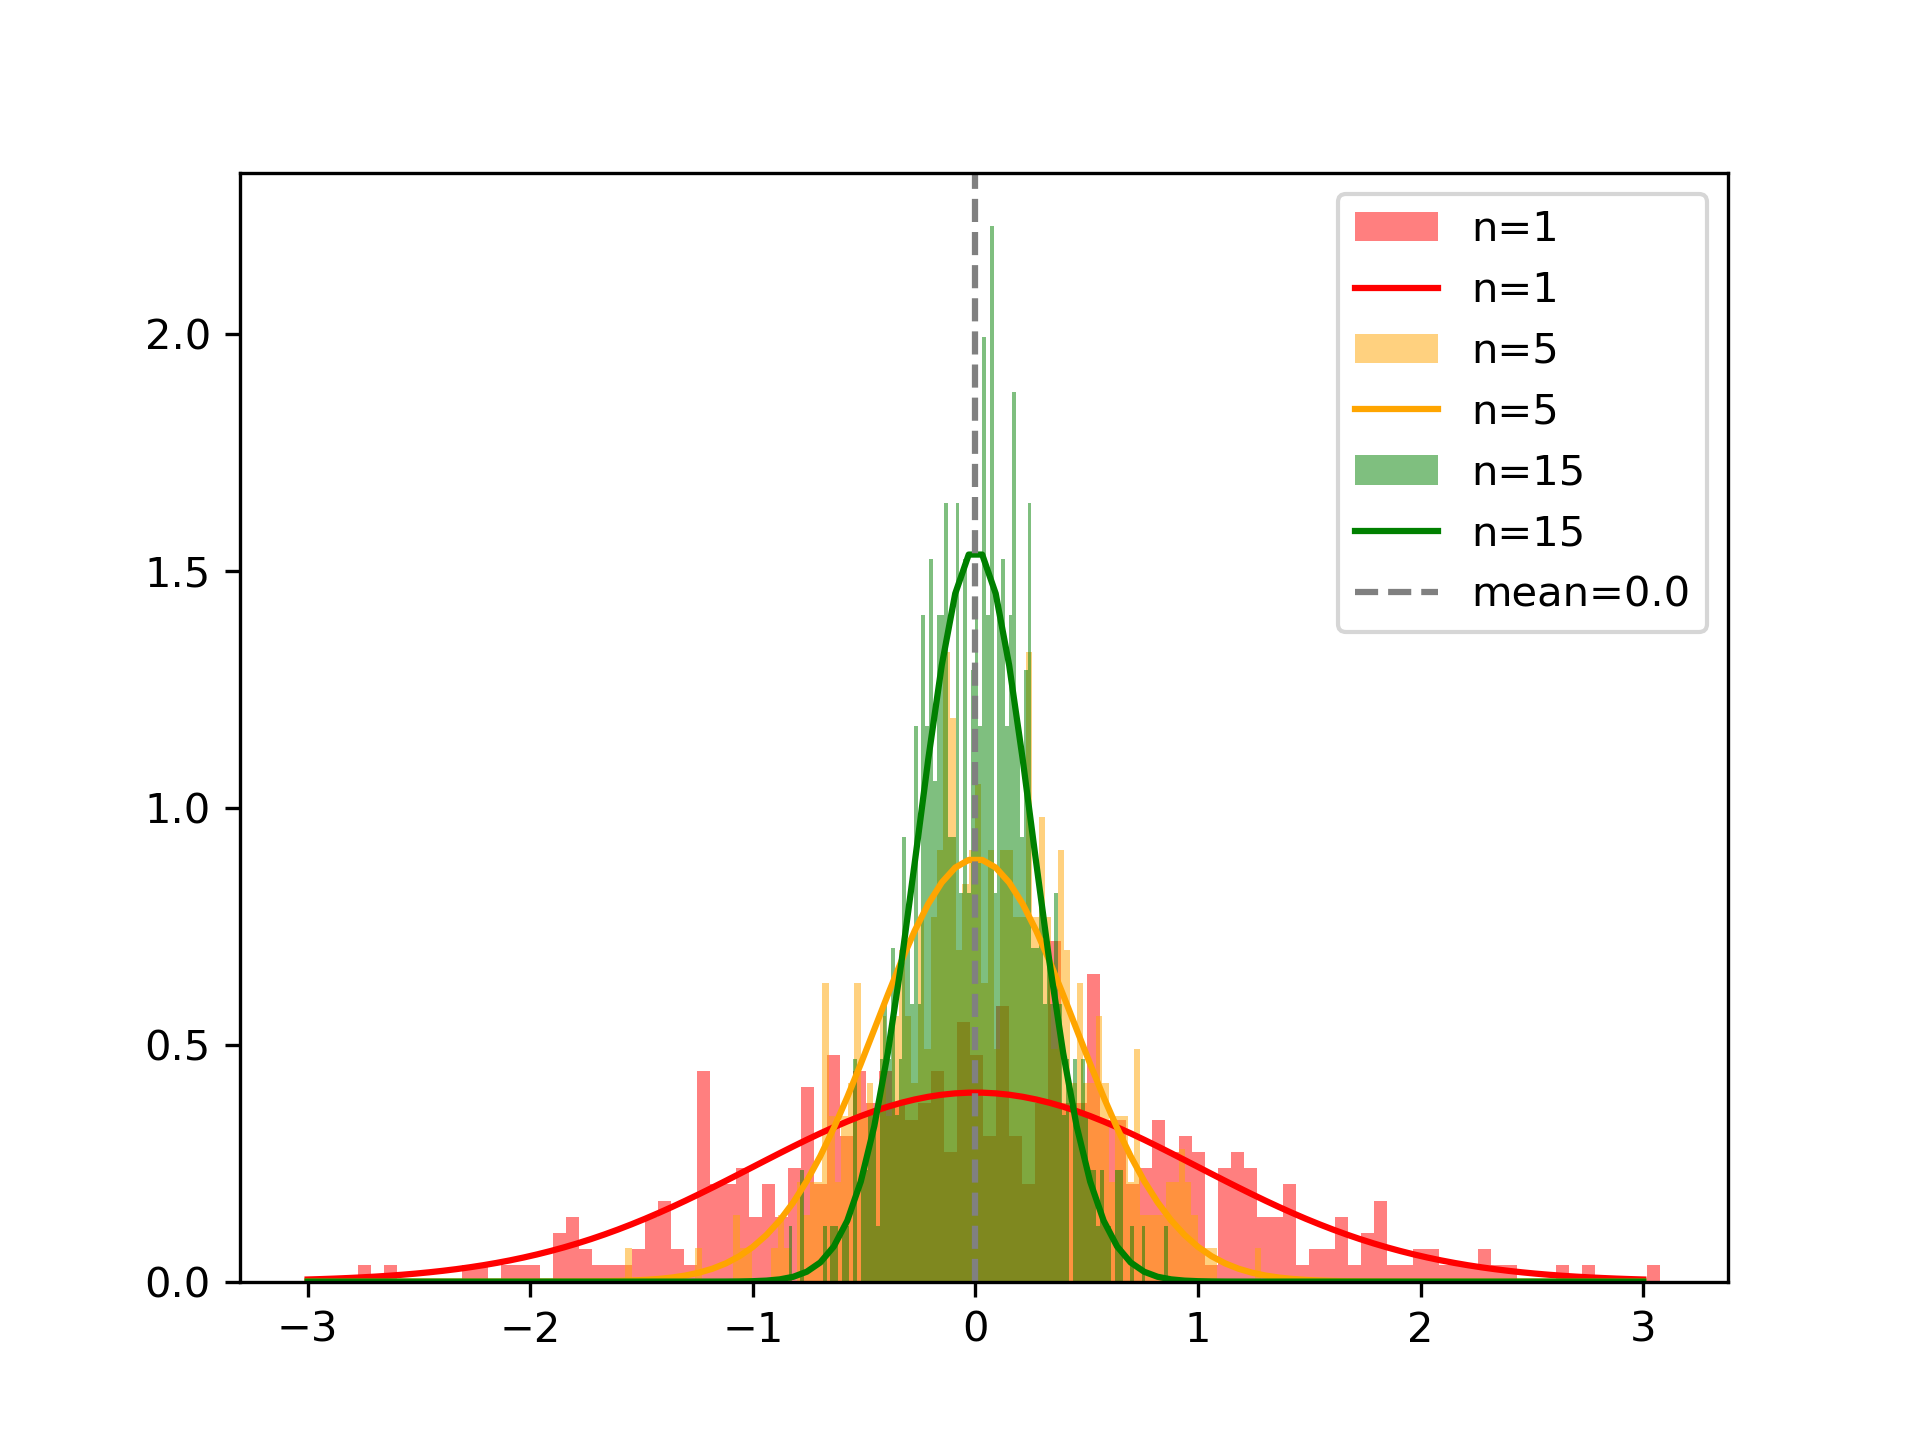
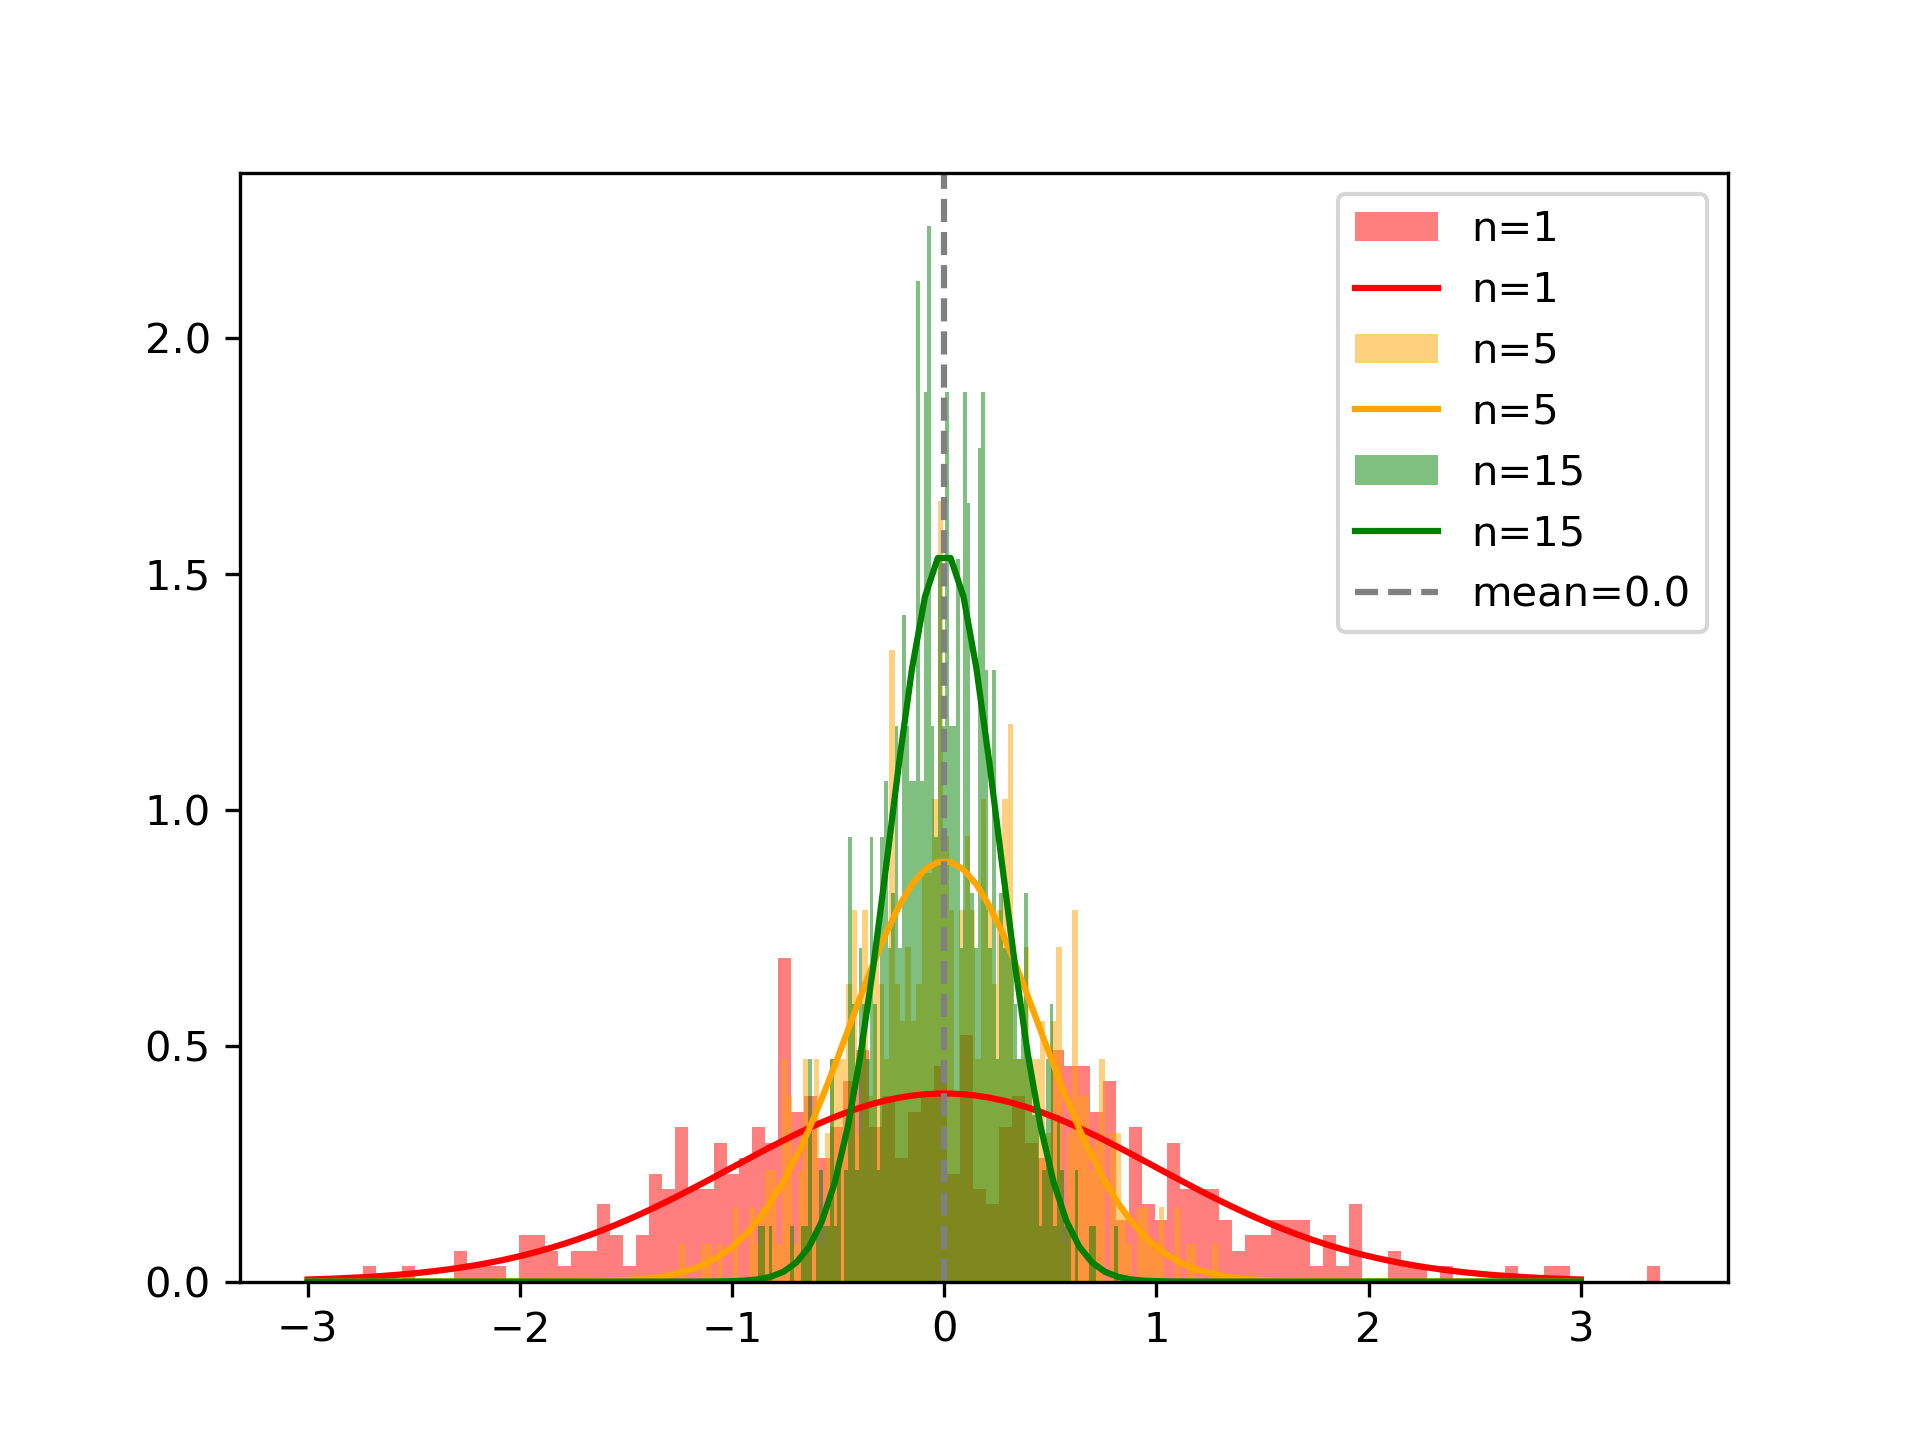
Add Alfra_013.jpg, Ants_on_a_dandelion.jpg, 04_skimage.py, ants_binary.png, ants_channels.png and labrador_gray.png

diff --git a/py scripts/04_skimage.py b/py scripts/04_skimage.py
@@ -1,0 +1,49 @@
+from skimage import io, color
+from skimage.filters import threshold_otsu
+import matplotlib.pyplot as plt
+
+# Load the image of the labrador
+# From https://commons.wikimedia.org/wiki/File:Afra_013.jpg
+#labrador = io.imread('Afra_013.jpg')
+labrador = io.imread("input/Afra_013.jpg")
+# Convert the image to grayscale
+gray_labrador = color.rgb2gray(labrador)
+# Display the grayscale image
+plt.axis("off") # turn off axis
+plt.imshow(gray_labrador, cmap='gray')
+plt.savefig("output/labrador_gray.png", dpi=300)  # save figure
+plt.show()
+
+# Load image of ants
+# From https://commons.wikimedia.org/wiki/File:Ants_on_a_dandelion.jpg
+ants = io.imread("input/Ants_on_a_dandelion.jpg")
+print(ants.shape)  # (height, width, channels)
+
+
+fig, ax = plt.subplots(2,2, figsize=(8,8))
+ax[0][0].imshow(ants[:,:,0])
+ax[0][0].set_title("Red channel")
+ax[0][0].axis("off")
+
+ax[0][1].imshow(ants[:,:,1])
+ax[0][1].set_title("Green channel")
+ax[0][1].axis("off")
+
+ax[1][0].imshow(ants[:,:,2])
+ax[1][0].set_title("Blue channel")
+ax[1][0].axis("off")
+
+ax[1][1].imshow(ants)
+ax[1][1].set_title("Original image")
+ax[1][1].axis("off")
+plt.savefig("output/ants_channels.png", dpi=300)
+plt.show()
+
+#thresholding on gray scale image
+gray_ants = color.rgb2gray(ants)
+thresh = threshold_otsu(gray_ants)
+binary_ants = gray_ants > thresh
+plt.imshow(binary_ants, cmap='gray')
+plt.axis("off")
+plt.savefig("output/ants_binary.png", dpi=300)
+plt.show()

diff --git a/README.md b/README.md
@@ -3,19 +3,37 @@ Repository to revise my Python basics, including the use of numpy, matplotlab, e
 
 ## Contents
 **Sine and Cosine Plots**  
-   File: 'py scripts/01_sine_cosine.py'  
-   Demonstrates plotting sine, cosine, and their squares on subplots.  
-   Libraries used: numpy, matplotlib
-   ![Sine and Cosine Plots](output/sine_cosine_plots.png)
+File: `py scripts/01_sine_cosine.py`  
+Demonstrates plotting sine, cosine, and their squares on subplots.  
+Libraries used: numpy, matplotlib  
+![Sine and Cosine Plots](output/sine_cosine_plots.png)
 
 **Show Numpy Array as an Image**  
-   File: 'py scripts/02_numpy-imshow.py'  
-   Demonstrates creating a numpy array with zeroes, changing the values and plotting the values as an image.  
-   Libraries used: numpy, matplotlib
-   ![Numpy Array As an Image](output/numpy_imshow.png)
+File: `py scripts/02_numpy-imshow.py`  
+Demonstrates creating a numpy array with zeroes, changing the values and plotting the values as an image.  
+Libraries used: numpy, matplotlib  
+![Numpy Array As an Image](output/numpy_imshow.png)  
 
 **Random Samples and Histograms (Central Limit Theorem)**  
-  File: 'py scripts/03_random-histogram.py'
-  Generate random samples from a normal distribution, find mean of each sample and plot the sample means of each histogram. As the sample size increases, the distribution of the sameple mean will be closer to a normal distribution.
-  Libraries used: numpy, matplotlib
-  ![random_histogram.png](output/random_histogram.png)
+File: `py scripts/03_random-histogram.py`  
+Generate random samples from a normal distribution, find mean of each sample and plot the sample means of each histogram. As the sample size increases, the distribution of the sample mean will be closer to a normal distribution.  
+Libraries used: numpy, matplotlib  
+![Random Histogram](output/random_histogram.png)  
+
+**Image Processing with scikit-image**  
+File: `py scripts/04_skimage.py`  
+Demonstrates basic image processing techniques:  
+- Convert a color image to grayscale.  
+- Display RGB channels separately with the original image.  
+- Apply Otsu’s thresholding method to segment a grayscale image.  
+Libraries used: scikit-image, matplotlib  
+
+Grayscale Labrador:  
+![Labrador Gray](output/labrador_gray.png)  
+
+RGB Channels and Original Ants Image:  
+![Ants Channels](output/ants_channels.png)  
+
+Otsu Thresholded Binary Ants Image:  
+![Ants Binary](output/ants_binary.png)  
+